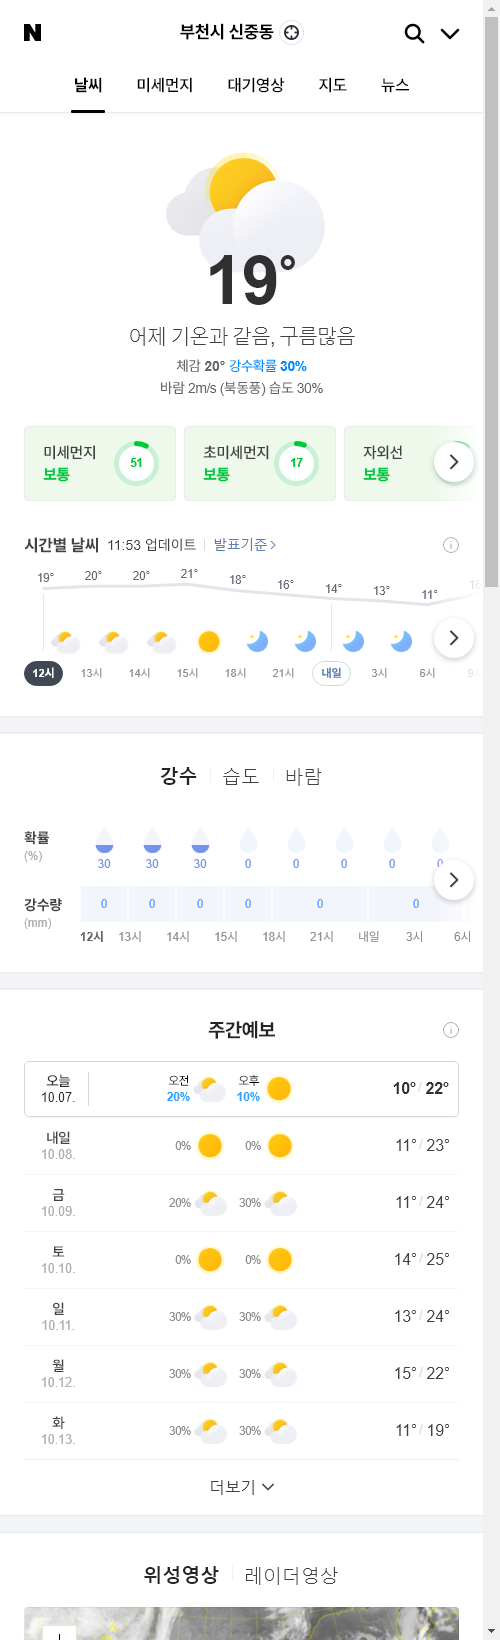
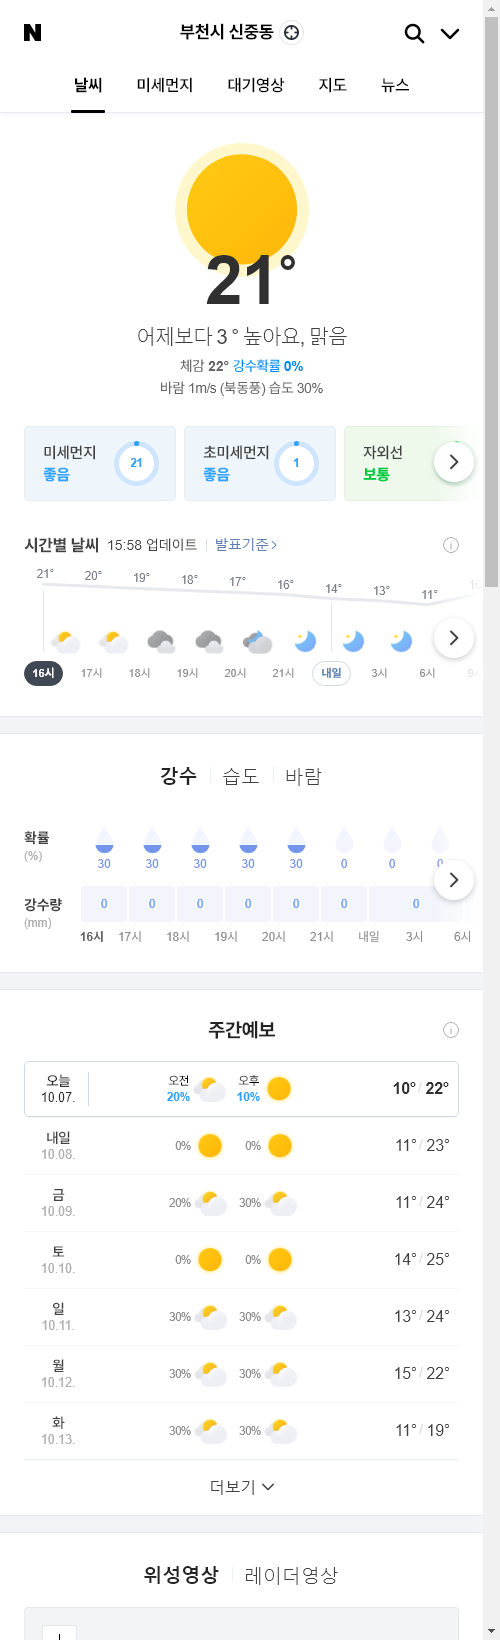
update result

diff --git a/README.md b/README.md
@@ -1,13 +1,13 @@
-##  2020-10-07 12:07:31   수요일 
-##### 날씨   -   어제 기온과 같음, 구름많음
+##  2020-10-07 16:02:51   수요일 
+##### 날씨   -   어제보다 3 ° 높아요, 맑음
 <center><img src="../img/naver_weather_week.png"></center>
 ----
 ----
 ##### 지수
 <table border="1" bordercolor="blue" align = "center" >
 <tr align = "right" > <td>Item</td><td>Point</td><td>Diff</td><td>Rate</td><td>Buy</td><td>Sell</td><td>...</td>  </tr>
-<tr align = "right" > <td>KOSPI</td><td>2,371.31</td><td>5.41</td><td><font size="3" color="red" >0.23%</font> </td><td><font size="3" color="black">2,000</font></td><td><font size="3" color="black">3,000</font></td><td>0</td>  </tr>
-<tr align = "right" > <td>KOSDAQ</td><td>866.71</td><td>4.13</td><td><font size="3" color="red" >0.48%</font> </td><td><font size="3" color="black">0</font></td><td><font size="3" color="black">0</font></td><td>0</td>  </tr>
+<tr align = "right" > <td>KOSPI</td><td>2,386.94</td><td>21.04</td><td><font size="3" color="red" >0.89%</font> </td><td><font size="3" color="black">2,000</font></td><td><font size="3" color="black">3,000</font></td><td>0</td>  </tr>
+<tr align = "right" > <td>KOSDAQ</td><td>869.66</td><td>7.08</td><td><font size="3" color="red" >0.82%</font> </td><td><font size="3" color="black">0</font></td><td><font size="3" color="black">0</font></td><td>0</td>  </tr>
 </table>
 ----
 ##### 세계
@@ -17,13 +17,13 @@
 <tr align = "right" > <td>NASDAQ</td><td>11,154.6</td><td>-177.89</td><td><font size="3" color="blue" >-1.57%</font></td><td><font size="3" color="black">0</font></td><td><font size="3" color="black">0</font></td><td>0</td>  </tr>
 <tr align = "right" > <td>S&P</td><td>3,360.95</td><td>-47.68</td><td><font size="3" color="blue" >-1.4%</font></td><td><font size="3" color="black">0</font></td><td><font size="3" color="black">0</font></td><td>0</td>  </tr>
 <tr align = "right" > <td>SHANHAI</td><td>3,218.05</td><td>-6.31</td><td><font size="3" color="blue" >-0.2%</font></td><td><font size="3" color="black">0</font></td><td><font size="3" color="black">0</font></td><td>0</td>  </tr>
-<tr align = "right" > <td>INDIA</td><td>39,574.57</td><td>600.87</td><td><font size="3" color="red" >1.54%</font></td><td><font size="3" color="black">0</font></td><td><font size="3" color="black">0</font></td><td>0</td>  </tr>
+<tr align = "right" > <td>INDIA</td><td>39,835.98</td><td>261.41</td><td><font size="3" color="red" >0.66%</font></td><td><font size="3" color="black">0</font></td><td><font size="3" color="black">0</font></td><td>0</td>  </tr>
 </table>
 ----
 ##### 시장
 <table border="1" bordercolor="blue" align = "center" >
 <tr align = "right" > <td>Item</td><td>Price</td><td>Diff</td><td>Rate</td><td>Buy</td><td>Sell</td><td>...</td>  </tr>
-<tr align = "right" > <td>USD</td><td>1,162.0</td><td>0.6</td><td><font size="3" color="red">0.05%</font></td><td><font size="3" color="black">1,150</font></td><td><font size="3" color="black">0</font></td><td>0</td>  </tr>
+<tr align = "right" > <td>USD</td><td>1,158.0</td><td>-3.0</td><td><font size="3" color="blue">-0.26%</font></td><td><font size="3" color="black">1,150</font></td><td><font size="3" color="black">0</font></td><td>0</td>  </tr>
 <tr align = "right" > <td>WTI</td><td>40.67</td><td>1.45</td><td><font size="3" color="red">3.69%</font></td><td><font size="3" color="black">29.0</font></td><td><font size="3" color="black">0</font></td><td>0</td>  </tr>
 <tr align = "right" > <td>GOLD</td><td>1,901.0</td><td>-11.4</td><td><font size="3" color="blue">-0.59%</font></td><td><font size="3" color="black">0</font></td><td><font size="3" color="black">0</font></td><td>0</td>  </tr>
 </table>
@@ -31,23 +31,23 @@
 ##### 주가
 <table border="1" bordercolor="blue" align = "center" >
 <tr align = "right" > <td>Item</td><td>Price</td><td>Diff</td><td>Rate</td><td>Purchased</td><td>Sell</td><td>Buy</td>  </tr>
-<tr align = "right" > <td>한국 전력</td><td>20,450</td><td>150</td><td><font size="3" color="red">0.74%</font></td><td>25,720</td><td><font size="3" color="black">30,000</font></td><td><font size="3" color="black">14,000</font></td>  </tr>
-<tr align = "right" > <td>삼성엔지니어.</td><td>10,700</td><td>0</td><td><font size="3" color="black">0.0%</font></td><td>18,935</td><td><font size="3" color="black">20,000</font></td><td><font size="3" color="black">8,000</font></td>  </tr>
+<tr align = "right" > <td>한국 전력</td><td>20,750</td><td>450</td><td><font size="3" color="red">2.22%</font></td><td>25,720</td><td><font size="3" color="black">30,000</font></td><td><font size="3" color="black">14,000</font></td>  </tr>
+<tr align = "right" > <td>삼성엔지니어.</td><td>10,800</td><td>100</td><td><font size="3" color="red">0.93%</font></td><td>18,935</td><td><font size="3" color="black">20,000</font></td><td><font size="3" color="black">8,000</font></td>  </tr>
 <tr align = "right" > <td>CJ CGV</td><td>21,800</td><td>50</td><td><font size="3" color="red">0.23%</font></td><td>34,895</td><td><font size="3" color="black">36,000</font></td><td><font size="3" color="black">0</font></td>  </tr>
-<tr align = "right" > <td>아모레퍼시픽</td><td>168,500</td><td>1,500</td><td><font size="3" color="red">0.9%</font></td><td>235,350</td><td><font size="3" color="black">240,000</font></td><td><font size="3" color="black">130,000</font></td>  </tr>
-<tr align = "right" > <td>한화</td><td>25,900</td><td>-350</td><td><font size="3" color="blue">-1.33%</font></td><td>25,550</td><td><font size="3" color="black">30,000</font></td><td><font size="3" color="black">20,000</font></td>  </tr>
-<tr align = "right" > <td>NAVER</td><td>302,000</td><td>-3,000</td><td><font size="3" color="blue">-0.98%</font></td><td>147,200</td><td><font size="3" color="black">400,000</font></td><td><font size="3" color="black">150,000</font></td>  </tr>
-<tr align = "right" > <td>LG 화학우</td><td>329,000</td><td>3,000</td><td><font size="3" color="red">0.92%</font></td><td>202,490</td><td><font size="3" color="black">500,000</font></td><td><font size="3" color="black">200,000</font></td>  </tr>
-<tr align = "right" > <td>스튜디오드래.</td><td>84,200</td><td>700</td><td><font size="3" color="red">0.84%</font></td><td>81,243</td><td><font size="3" color="black">100,000</font></td><td><font size="3" color="black">78,000</font></td>  </tr>
-<tr align = "right" > <td>글로벌럭셔리</td><td>12,770</td><td>5</td><td><font size="3" color="red">0.04%</font></td><td>9,630</td><td><font size="3" color="black">15,000</font></td><td><font size="3" color="black">10,000</font></td>  </tr>
-<tr align = "right" > <td>QV미국IT</td><td>22,815</td><td>-525</td><td><font size="3" color="blue">-2.25%</font></td><td>22,010</td><td><font size="3" color="black">30,000</font></td><td><font size="3" color="black">20,000</font></td>  </tr>
-<tr align = "right" > <td>호텔 신라</td><td>74,400</td><td>200</td><td><font size="3" color="red">0.27%</font></td><td>72,800</td><td><font size="3" color="black">100,000</font></td><td><font size="3" color="black">70,000</font></td>  </tr>
-<tr align = "right" > <td>S-Oil</td><td>55,100</td><td>1,600</td><td><font size="3" color="red">2.99%</font></td><td>62,842</td><td><font size="3" color="black">100,000</font></td><td><font size="3" color="black">50,000</font></td>  </tr>
-<tr align = "right" > <td>LG전자</td><td>95,400</td><td>1,000</td><td><font size="3" color="red">1.06%</font></td><td>82,022</td><td><font size="3" color="black">100,000</font></td><td><font size="3" color="black">60,000</font></td>  </tr>
-<tr align = "right" > <td>지역난방공사</td><td>35,650</td><td>-150</td><td><font size="3" color="blue">-0.42%</font></td><td>43,590</td><td><font size="3" color="black">60,000</font></td><td><font size="3" color="black">30,000</font></td>  </tr>
-<tr align = "right" > <td>KOEDX은행</td><td>5,280</td><td>25</td><td><font size="3" color="red">0.48%</font></td><td>5,155</td><td><font size="3" color="black">6,000</font></td><td><font size="3" color="black">4,500</font></td>  </tr>
-<tr align = "right" > <td>삼성 전자우</td><td>50,800</td><td>-100</td><td><font size="3" color="blue">-0.2%</font></td><td>48,250</td><td><font size="3" color="black">56,000</font></td><td><font size="3" color="black">45,000</font></td>  </tr>
-<tr align = "right" > <td>한화에어로스.</td><td>26,550</td><td>200</td><td><font size="3" color="red">0.76%</font></td><td>25,700</td><td><font size="3" color="black">30,000</font></td><td><font size="3" color="black">0</font></td>  </tr>
-<tr align = "right" > <td>한국금융지주</td><td>72,000</td><td>-700</td><td><font size="3" color="blue">-0.96%</font></td><td>61,900</td><td><font size="3" color="black">82,000</font></td><td><font size="3" color="black">60,000</font></td>  </tr>
+<tr align = "right" > <td>아모레퍼시픽</td><td>169,000</td><td>2,000</td><td><font size="3" color="red">1.2%</font></td><td>235,350</td><td><font size="3" color="black">240,000</font></td><td><font size="3" color="black">130,000</font></td>  </tr>
+<tr align = "right" > <td>한화</td><td>26,050</td><td>-200</td><td><font size="3" color="blue">-0.76%</font></td><td>25,550</td><td><font size="3" color="black">30,000</font></td><td><font size="3" color="black">20,000</font></td>  </tr>
+<tr align = "right" > <td>NAVER</td><td>305,000</td><td>0</td><td><font size="3" color="black">0.0%</font></td><td>147,200</td><td><font size="3" color="black">400,000</font></td><td><font size="3" color="black">150,000</font></td>  </tr>
+<tr align = "right" > <td>LG 화학우</td><td>332,000</td><td>6,000</td><td><font size="3" color="red">1.84%</font></td><td>202,490</td><td><font size="3" color="black">500,000</font></td><td><font size="3" color="black">200,000</font></td>  </tr>
+<tr align = "right" > <td>스튜디오드래.</td><td>84,300</td><td>800</td><td><font size="3" color="red">0.96%</font></td><td>81,243</td><td><font size="3" color="black">100,000</font></td><td><font size="3" color="black">78,000</font></td>  </tr>
+<tr align = "right" > <td>글로벌럭셔리</td><td>12,735</td><td>-30</td><td><font size="3" color="blue">-0.24%</font></td><td>9,630</td><td><font size="3" color="black">15,000</font></td><td><font size="3" color="black">10,000</font></td>  </tr>
+<tr align = "right" > <td>QV미국IT</td><td>22,850</td><td>-490</td><td><font size="3" color="blue">-2.1%</font></td><td>22,010</td><td><font size="3" color="black">30,000</font></td><td><font size="3" color="black">20,000</font></td>  </tr>
+<tr align = "right" > <td>호텔 신라</td><td>74,900</td><td>700</td><td><font size="3" color="red">0.94%</font></td><td>72,800</td><td><font size="3" color="black">100,000</font></td><td><font size="3" color="black">70,000</font></td>  </tr>
+<tr align = "right" > <td>S-Oil</td><td>55,900</td><td>2,400</td><td><font size="3" color="red">4.49%</font></td><td>62,842</td><td><font size="3" color="black">100,000</font></td><td><font size="3" color="black">50,000</font></td>  </tr>
+<tr align = "right" > <td>LG전자</td><td>96,100</td><td>1,700</td><td><font size="3" color="red">1.8%</font></td><td>82,022</td><td><font size="3" color="black">100,000</font></td><td><font size="3" color="black">60,000</font></td>  </tr>
+<tr align = "right" > <td>지역난방공사</td><td>35,750</td><td>-50</td><td><font size="3" color="blue">-0.14%</font></td><td>43,590</td><td><font size="3" color="black">60,000</font></td><td><font size="3" color="black">30,000</font></td>  </tr>
+<tr align = "right" > <td>KOEDX은행</td><td>5,300</td><td>45</td><td><font size="3" color="red">0.86%</font></td><td>5,155</td><td><font size="3" color="black">6,000</font></td><td><font size="3" color="black">4,500</font></td>  </tr>
+<tr align = "right" > <td>삼성 전자우</td><td>51,400</td><td>500</td><td><font size="3" color="red">0.98%</font></td><td>48,250</td><td><font size="3" color="black">56,000</font></td><td><font size="3" color="black">45,000</font></td>  </tr>
+<tr align = "right" > <td>한화에어로스.</td><td>26,850</td><td>500</td><td><font size="3" color="red">1.9%</font></td><td>25,700</td><td><font size="3" color="black">30,000</font></td><td><font size="3" color="black">0</font></td>  </tr>
+<tr align = "right" > <td>한국금융지주</td><td>72,200</td><td>-500</td><td><font size="3" color="blue">-0.69%</font></td><td>61,900</td><td><font size="3" color="black">82,000</font></td><td><font size="3" color="black">60,000</font></td>  </tr>
 </table>
 ----
